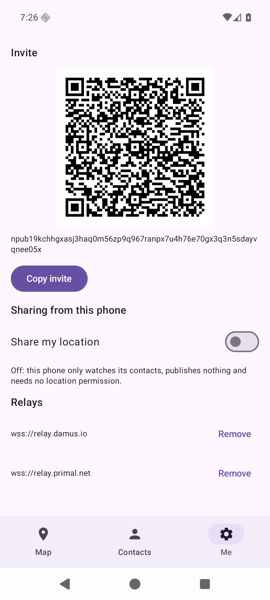
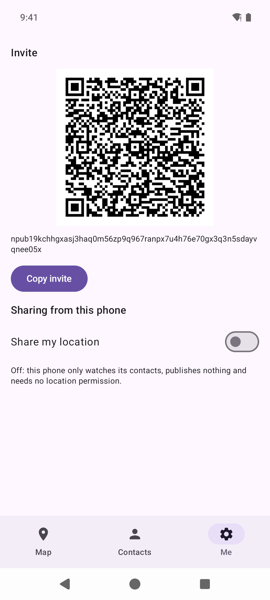
Drop the relay list from the Me screen
The Me screen on both apps listed the relays and let the user add and
remove them. Both go, with the model methods behind them: the app keeps
publishing to the relay list it was seeded with from the defaults. Spec
7.1 now says the list cannot be viewed or edited, and 7.4 drops the
NIP-11 check on adding a relay, which neither app ever ran.

PRIVACY.md and both store listings no longer say the relays can be
changed, and Android's location disclosure names public Nostr relays
instead of a relay list the user no longer sees. The README's Android
Me screenshot and the 6.9-inch App Store one showed the relay section
and are redone, the App Store one from a Release build so that the
tester log does not take its place.

Build 10 for TestFlight and version code 7 for closed testing.

Prompts behind this commit, as given to Claude Code
(model claude-opus-5-5, effort xhigh):

47.
> [pasted: 3 lines of terminal output with the phone's ABI list]
> still nothing on play store its unavailable double check or should i
> reboot phone

48. (a reply button)
> nokia is plugged in again, check what its play store shows

49.
> remove the listing and adding ability of the relays

(Run the iOS unit tests although simulator boots crashed PosterBoard?)
> Run them (Recommended)

diff --git a/android/app/src/main/kotlin/app/mismeet/android/ui/MeScreen.kt b/android/app/src/main/kotlin/app/mismeet/android/ui/MeScreen.kt
@@ -23,7 +23,6 @@ import androidx.compose.foundation.verticalScroll
 import androidx.compose.material3.AlertDialog
 import androidx.compose.material3.Button
 import androidx.compose.material3.MaterialTheme
-import androidx.compose.material3.OutlinedTextField
 import androidx.compose.material3.Switch
 import androidx.compose.material3.Text
 import androidx.compose.material3.TextButton
@@ -38,7 +37,6 @@ import androidx.compose.ui.Alignment
 import androidx.compose.ui.Modifier
 import androidx.compose.ui.graphics.asImageBitmap
 import androidx.compose.ui.platform.LocalContext
-import androidx.compose.ui.platform.LocalFocusManager
 import androidx.compose.ui.unit.dp
 import androidx.lifecycle.compose.LifecycleResumeEffect
 import app.mismeet.android.AppModel
@@ -53,7 +51,6 @@ fun MeScreen(model: AppModel, modifier: Modifier = Modifier) {
     val state by model.state.collectAsState()
     val log by model.log.collectAsState()
     val context = LocalContext.current
-    val focus = LocalFocusManager.current
     var permissionVersion by remember { mutableIntStateOf(0) }
     val permissions = rememberLauncherForActivityResult(ActivityResultContracts.RequestMultiplePermissions()) {
         permissionVersion++
@@ -69,7 +66,6 @@ fun MeScreen(model: AppModel, modifier: Modifier = Modifier) {
     }
     val inviteLink = remember(state.relays) { model.inviteLink() }
     val qr = remember(inviteLink) { qrBitmap(inviteLink) }
-    var newRelay by remember { mutableStateOf("") }
     // Google Play requires this disclosure to come right before each location permission request.
     var pendingLocationRequest by remember { mutableStateOf<Array<String>?>(null) }
 
@@ -130,18 +126,6 @@ fun MeScreen(model: AppModel, modifier: Modifier = Modifier) {
             state.lastPublishedAt?.let { Text("Last published ${DateFormat.getTimeFormat(context).format(it)}", style = MaterialTheme.typography.bodySmall) }
         }
 
-        Text("Relays", style = MaterialTheme.typography.titleMedium)
-        state.relays.forEach { relay ->
-            Row(Modifier.fillMaxWidth(), horizontalArrangement = Arrangement.SpaceBetween, verticalAlignment = Alignment.CenterVertically) {
-                Text(relay, style = MaterialTheme.typography.bodySmall)
-                TextButton(onClick = { model.removeRelay(relay) }) { Text("Remove") }
-            }
-        }
-        Row(Modifier.fillMaxWidth(), horizontalArrangement = Arrangement.spacedBy(8.dp), verticalAlignment = Alignment.CenterVertically) {
-            OutlinedTextField(value = newRelay, onValueChange = { newRelay = it }, label = { Text("wss://") }, modifier = Modifier.weight(1f))
-            Button(onClick = { model.addRelay(newRelay); newRelay = ""; focus.clearFocus() }, enabled = newRelay.isNotBlank()) { Text("Add") }
-        }
-
         if (BuildConfig.SHOWS_LOG) {
             Text("Log", style = MaterialTheme.typography.titleMedium)
             log.asReversed().forEach { line ->
@@ -153,7 +137,7 @@ fun MeScreen(model: AppModel, modifier: Modifier = Modifier) {
 
 private const val LOCATION_DISCLOSURE =
     "Mismeet collects location data to share your position with the contacts you choose, even when the app is closed " +
-        "or not in use. Each position is encrypted for those contacts alone, sent to the relays in your relay list and " +
+        "or not in use. Each position is encrypted for those contacts alone, sent to public Nostr relays and " +
         "expires after 24 hours. It is never used for ads."
 
 private fun qrBitmap(text: String, size: Int = 480): Bitmap {

diff --git a/ios/Mismeet/UI/MeView.swift b/ios/Mismeet/UI/MeView.swift
@@ -2,7 +2,6 @@ import SwiftUI
 
 struct MeView: View {
     @Environment(AppModel.self) private var model
-    @State private var newRelay = ""
 
     var body: some View {
         NavigationStack {
@@ -42,22 +41,6 @@ struct MeView: View {
                         Text("Off: this phone only watches its contacts, publishes nothing and needs no location permission.")
                             .font(.footnote)
                             .foregroundStyle(.secondary)
-                    }
-                }
-                Section("Relays") {
-                    ForEach(model.state.relays, id: \.self) { relay in
-                        Text(relay).font(.footnote.monospaced())
-                    }
-                    .onDelete { offsets in model.removeRelays(at: offsets) }
-                    HStack {
-                        TextField("wss://", text: $newRelay)
-                            .textInputAutocapitalization(.never)
-                            .autocorrectionDisabled()
-                        Button("Add") {
-                            model.addRelay(newRelay)
-                            newRelay = ""
-                        }
-                        .disabled(newRelay.isEmpty)
                     }
                 }
                 if model.showsLog {

diff --git a/android/app/src/main/kotlin/app/mismeet/android/AppModel.kt b/android/app/src/main/kotlin/app/mismeet/android/AppModel.kt
@@ -216,29 +216,6 @@ class AppModel private constructor(private val context: Context) {
         recipientsChanged()
     }
 
-    // Relays
-
-    fun addRelay(text: String) {
-        val url = runCatching { RelayUrl.parse(text.trim()) }.getOrNull()
-        if (url == null) {
-            tell("Not a relay URL: $text")
-            return
-        }
-        val value = url.toString()
-        if (value in _state.value.relays) return
-        if (_state.value.relays.size >= ProtocolConstants.MAX_RELAYS_PER_LIST) {
-            tell("At most ${ProtocolConstants.MAX_RELAYS_PER_LIST} relays")
-            return
-        }
-        update { it.copy(relays = it.relays + value) }
-        if (_state.value.sharingEnabled) scope.launch { publishRelayList() }
-    }
-
-    fun removeRelay(url: String) {
-        update { it.copy(relays = it.relays - url) }
-        if (_state.value.sharingEnabled) scope.launch { publishRelayList() }
-    }
-
     // Publishing
 
     private suspend fun publishFresh(trigger: Trigger) {

diff --git a/ios/Mismeet/App/AppModel.swift b/ios/Mismeet/App/AppModel.swift
@@ -259,30 +259,6 @@ final class AppModel {
         }
     }
 
-    // MARK: Relays
-
-    func addRelay(_ text: String) {
-        guard let url = try? RelayUrl.parse(url: text.trimmingCharacters(in: .whitespacesAndNewlines)) else {
-            tell("Not a relay URL: \(text)")
-            return
-        }
-        let value = url.description
-        guard !state.relays.contains(value) else { return }
-        guard state.relays.count < ProtocolConstants.maxRelaysPerList else {
-            tell("At most \(ProtocolConstants.maxRelaysPerList) relays")
-            return
-        }
-        state.relays.append(value)
-        save()
-        if state.sharingEnabled { Task { await publishRelayList() } }
-    }
-
-    func removeRelays(at offsets: IndexSet) {
-        state.relays.remove(atOffsets: offsets)
-        save()
-        if state.sharingEnabled { Task { await publishRelayList() } }
-    }
-
     // MARK: Publishing
 
     func publishNow() {

diff --git a/PROMPTS.md b/PROMPTS.md
@@ -5,9 +5,27 @@ with its commit and pull request. Square brackets mark what was left out or reda
 commit without a prompts section is left out. This file is generated from the commit messages,
 so a change by hand is lost at the next commit.
 
-## Watch without sharing on iOS too, run on Android 10, drop Share invite
+## Drop the relay list from the Me screen
 
 2026-10-26, [the commit that last changed this file](https://github.com/lambdakilo/mismeet/commits/main/PROMPTS.md), model claude-opus-5-5, effort xhigh.
+
+**47.**
+> [pasted: 3 lines of terminal output with the phone's ABI list]
+> still nothing on play store its unavailable double check or should i
+> reboot phone
+
+**48.** (a reply button)
+> nokia is plugged in again, check what its play store shows
+
+**49.**
+> remove the listing and adding ability of the relays
+
+(Run the iOS unit tests although simulator boots crashed PosterBoard?)
+> Run them (Recommended)
+
+## Watch without sharing on iOS too, run on Android 10, drop Share invite
+
+2026-10-26, commit [f8f0b8f](https://github.com/lambdakilo/mismeet/commit/f8f0b8fab269ccb56c87295f41ddf0f57722240f), model claude-opus-5-5, effort xhigh.
 
 **44.**
 > can you make the most simple post or some info to the mismeet testers

diff --git a/spec/SPEC.md b/spec/SPEC.md
@@ -250,7 +250,7 @@ Section 13 lists this deviation.
 ### 7.1 Relay lists
 
 Each user has a relay list in the app, two to four `wss://` URLs, seeded from the app's default
-list and editable. The list is used for both writing and reading.
+list. The app offers no way to view or edit it. The list is used for both writing and reading.
 
 The publisher advertises its list as a NIP-65 kind `10002` event with one `r` tag per relay and
 no marker (read and write), empty content, published to every relay on the list. It is
@@ -306,9 +306,8 @@ A relay is suitable when it:
 - preferably lists NIP-40 in its NIP-11 `supported_nips`,
 - serves events to unauthenticated readers.
 
-The app checks NIP-11 when a relay is added and warns on a known mismatch. Candidate defaults,
-to be verified against this list before release: `wss://relay.damus.io`, `wss://nos.lol`,
-`wss://relay.primal.net`.
+The app's default relays are chosen against this list. Candidate defaults, to be verified
+against it before release: `wss://relay.damus.io`, `wss://nos.lol`, `wss://relay.primal.net`.
 
 ## 8. Client behaviour
 

diff --git a/PRIVACY.md b/PRIVACY.md
@@ -25,10 +25,10 @@ notification shows while it runs.
 
 When you look at your contacts, the app asks those relays for their latest events.
 
-The relays are run by third parties under their own terms. The defaults are relay.damus.io,
-nos.lol and relay.primal.net, and you can change them. A relay can see your public key, when
-you publish, your IP address, roughly how many contacts you share with (rounded up to 4, 8, 16,
-32 or 64) and, when you fetch, which public keys you ask about. Section 9 of the
+The relays are run by third parties under their own terms. The app uses relay.damus.io, nos.lol
+and relay.primal.net. A relay can see your public key, when you publish, your IP address,
+roughly how many contacts you share with (rounded up to 4, 8, 16, 32 or 64) and, when you
+fetch, which public keys you ask about. Section 9 of the
 [protocol specification](spec/SPEC.md) describes this in detail.
 
 ## Maps, roads and pictures

diff --git a/design/app-store/listing.md b/design/app-store/listing.md
@@ -75,7 +75,7 @@ No account, login or sample files are needed.
 With a single device, the Me tab shows the invite and the map shows your own position. Seeing a contact needs a second device running Mismeet, as in the screen recording.
 
 External services
-- Public Nostr relays: relay.damus.io, nos.lol and relay.primal.net by default, changeable on the Me tab. They store the encrypted location events and the list of relays each user publishes to, and cannot read locations.
+- Public Nostr relays: relay.damus.io, nos.lol and relay.primal.net. They store the encrypted location events and the list of relays each user publishes to, and cannot read locations.
 - Apple MapKit for the map.
 - The open-source Nostr Dev Kit library (MIT licence) for the Nostr protocol and the encryption.
 Mismeet uses no authentication, payment, analytics, advertising or AI service, and has no server of its own.

diff --git a/design/play-store/listing.md b/design/play-store/listing.md
@@ -73,7 +73,7 @@ As submitted in Play Console on 2026-10-24.
 - Data safety: no data collected and none shared. The developer runs no server; the location
   leaves the phone only end-to-end encrypted for the chosen contacts, which Play exempts from
   disclosure, and the app has no analytics, ads or crash reporting. Data is encrypted in
-  transit. The relays the user chooses still see a public key, an IP address and publish times,
+  transit. The Nostr relays still see a public key, an IP address and publish times,
   and the Overpass API sees an IP address and the road squares it serves, as `PRIVACY.md` says.
 
 ## Sensitive permissions
